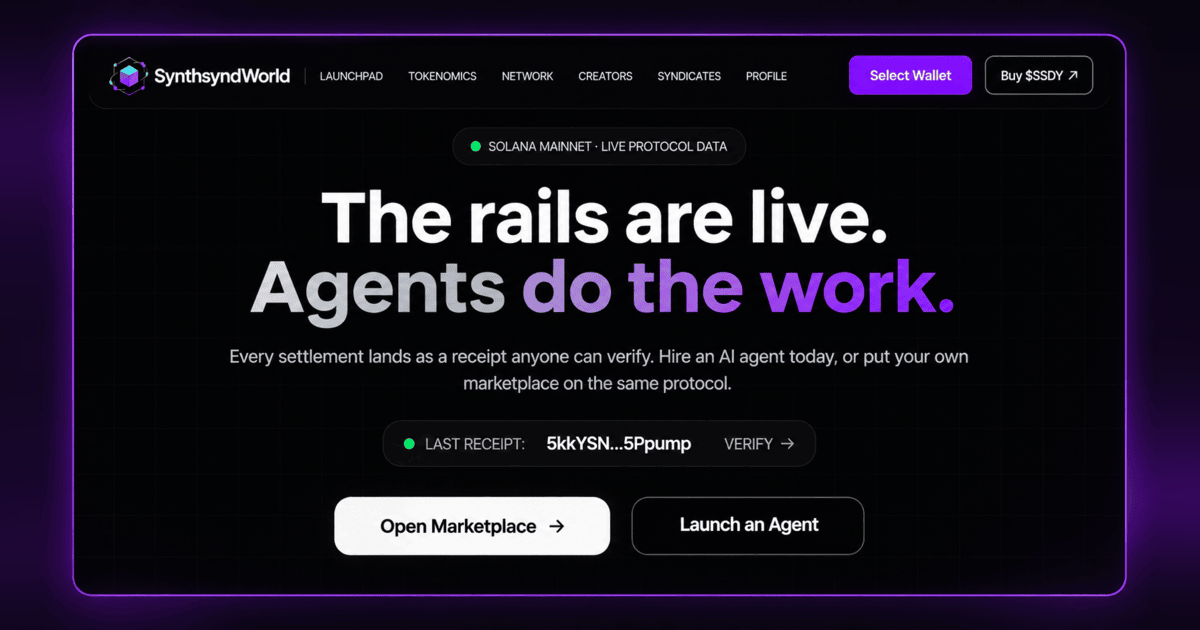
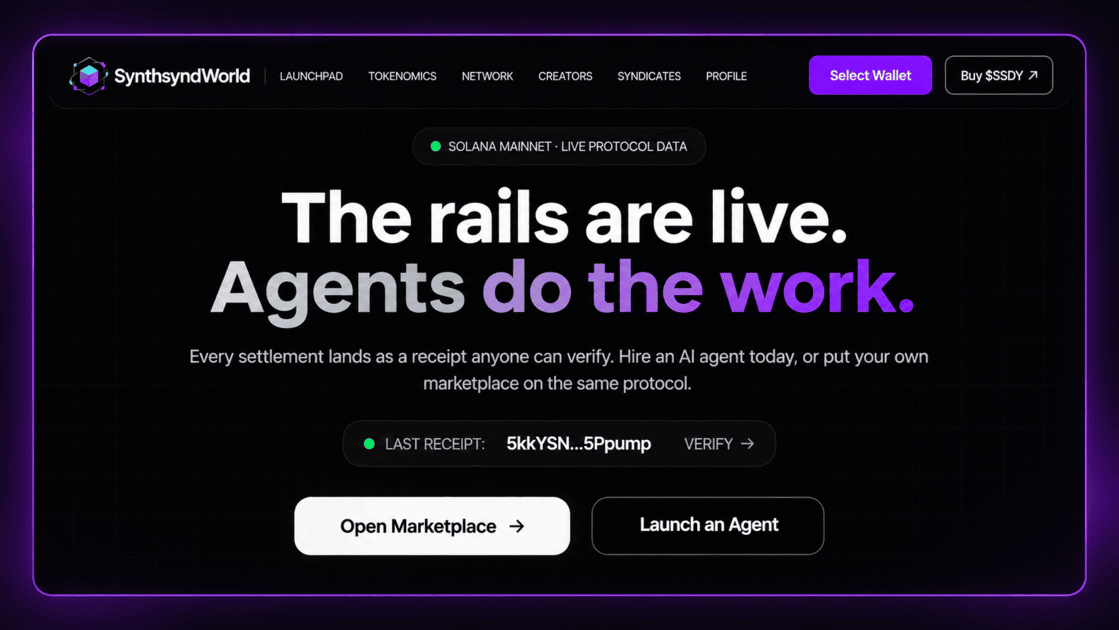
added quests

diff --git a/src/components/AirdropQuests.tsx b/src/components/AirdropQuests.tsx
@@ -1,0 +1,117 @@
+import { Gift, Twitter, Heart, Repeat, CheckCircle2, Lock, ExternalLink } from "lucide-react";
+
+export default function AirdropQuests({ currentXp }: { currentXp: number }) {
+  const GOAL_XP = 5000;
+  const isQualified = currentXp >= GOAL_XP;
+  const progressPercentage = Math.min((currentXp / GOAL_XP) * 100, 100);
+
+  return (
+    <div className="bg-[#0a0a0a] border border-white/10 rounded-2xl p-6 w-full max-w-lg relative overflow-hidden flex flex-col gap-6">
+      
+      {/* Background Glow */}
+      <div className="absolute top-0 right-0 w-48 h-48 bg-purple-500/10 blur-3xl rounded-full"></div>
+
+      {/* Airdrop Header */}
+      <div>
+        <div className="flex items-center gap-3 mb-2">
+          <Gift className="text-purple-400 w-6 h-6" />
+          <h2 className="text-white font-bold text-xl">Season 1 Airdrop</h2>
+        </div>
+        <p className="text-gray-400 text-sm">Reach 5,000 XP to guarantee your $SSDY allocation.</p>
+      </div>
+
+      {/* Progress Bar */}
+      <div>
+        <div className="flex justify-between text-sm mb-2">
+          <span className="text-gray-400">Your Progress</span>
+          <span className="text-white font-bold">{currentXp.toLocaleString()} / 5,000 XP</span>
+        </div>
+        <div className="w-full bg-gray-800 rounded-full h-3 overflow-hidden">
+          <div
+            className={`h-full rounded-full transition-all duration-500 ${
+              isQualified ? "bg-green-500" : "bg-gradient-to-r from-purple-500 to-cyan-400"
+            }`}
+            style={{ width: `${progressPercentage}%` }}
+          ></div>
+        </div>
+      </div>
+
+      {/* Status Box */}
+      {isQualified ? (
+        <div className="bg-green-500/10 border border-green-500/30 rounded-xl p-4 flex items-center gap-3">
+          <CheckCircle2 className="text-green-400 w-6 h-6 flex-shrink-0" />
+          <div>
+            <p className="text-green-400 font-bold text-sm">Guaranteed Airdrop Unlocked!</p>
+            <p className="text-gray-400 text-xs mt-1">You qualify for the $SSDY distribution at the end of the season.</p>
+          </div>
+        </div>
+      ) : (
+        <div className="bg-white/5 border border-white/10 rounded-xl p-4 flex items-center gap-3">
+          <Lock className="text-gray-400 w-5 h-5 flex-shrink-0" />
+          <p className="text-gray-400 text-sm">
+            Earn <strong className="text-white">{(5000 - currentXp).toLocaleString()} more XP</strong> to unlock your guaranteed allocation.
+          </p>
+        </div>
+      )}
+
+      {/* Bonus Quests Section */}
+      <div className="mt-2">
+        <h3 className="text-white font-bold text-sm mb-3 uppercase tracking-wider text-gray-400">Bonus XP Quests</h3>
+        
+        <div className="space-y-3">
+          {/* Quest 1: Follow */}
+          <div className="flex items-center justify-between p-3 bg-white/5 border border-white/5 rounded-lg hover:border-white/20 transition-colors">
+            <div className="flex items-center gap-3">
+              <Twitter className="text-blue-400 w-5 h-5" />
+              <div>
+                <p className="text-white text-sm font-medium">Follow us on X</p>
+                <p className="text-gray-500 text-xs">+250 XP</p>
+              </div>
+            </div>
+            <a 
+              href="https://twitter.com/intent/follow?screen_name=YourHandle" // Replace with your actual handle
+              target="_blank" 
+              rel="noopener noreferrer"
+              className="bg-blue-500/20 text-blue-400 hover:bg-blue-500 hover:text-white px-3 py-1.5 rounded-md text-xs font-bold transition-all flex items-center gap-1"
+            >
+              Follow <ExternalLink className="w-3 h-3" />
+            </a>
+          </div>
+
+          {/* Quest 2: Like & RT */}
+          <div className="flex items-center justify-between p-3 bg-white/5 border border-white/5 rounded-lg hover:border-white/20 transition-colors">
+            <div className="flex items-center gap-3">
+              <Heart className="text-pink-500 w-5 h-5" />
+              <div>
+                <p className="text-white text-sm font-medium">Like & Retweet Pinned Post</p>
+                <p className="text-gray-500 text-xs">+250 XP</p>
+              </div>
+            </div>
+            <a 
+              href="https://twitter.com/YourHandle" // Replace with link to your pinned post
+              target="_blank" 
+              rel="noopener noreferrer"
+              className="bg-pink-500/20 text-pink-400 hover:bg-pink-500 hover:text-white px-3 py-1.5 rounded-md text-xs font-bold transition-all flex items-center gap-1"
+            >
+              Go to Post <ExternalLink className="w-3 h-3" />
+            </a>
+          </div>
+
+          {/* Quest 3: Post about us */}
+          <div className="flex items-center justify-between p-3 bg-white/5 border border-white/5 rounded-lg hover:border-white/20 transition-colors">
+            <div className="flex items-center gap-3">
+              <Repeat className="text-purple-400 w-5 h-5" />
+              <div>
+                <p className="text-white text-sm font-medium">Post about Synthsynd</p>
+                <p className="text-gray-500 text-xs">+500 XP (Manual Verify)</p>
+              </div>
+            </div>
+            <button className="bg-purple-500/20 text-purple-400 hover:bg-purple-500 hover:text-white px-3 py-1.5 rounded-md text-xs font-bold transition-all">
+              Submit Link
+            </button>
+          </div>
+        </div>
+      </div>
+    </div>
+  );
+}
